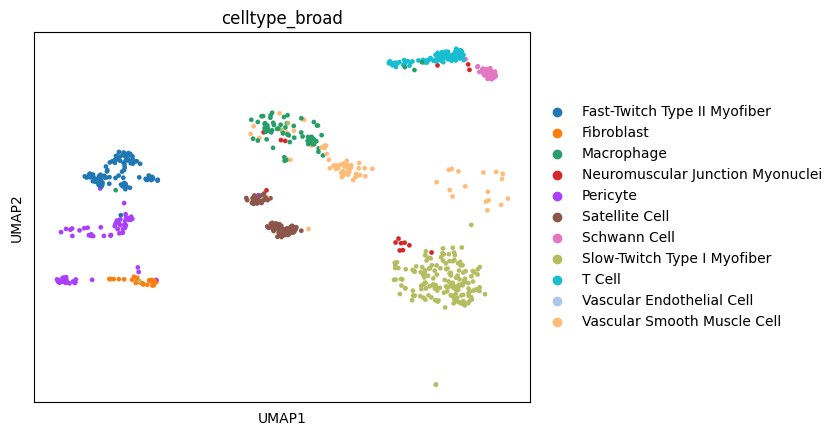
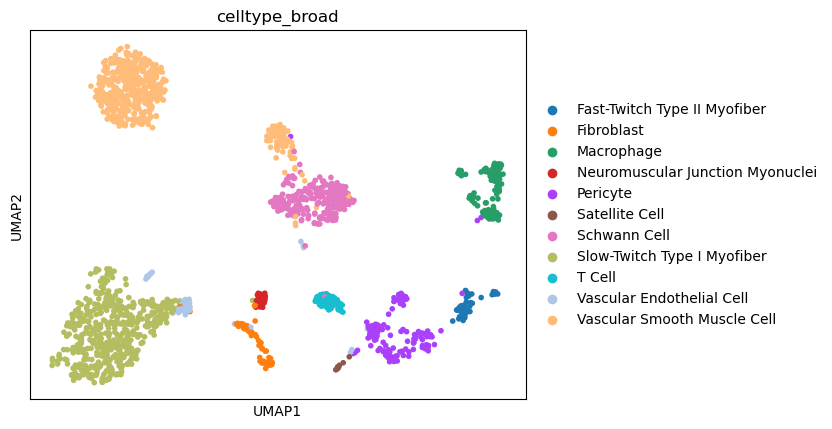
Fix multiome step 5 and demo config; document dGTEx use
- data_integration: match imputed features by name (works without
  var['modality']), log/store how many genes and peaks were filled
- identify_regulatory_elements: references.chrom_size is optional, defaults to
  built-in hg38 sizes
- multiome config: point rna_post_qc_h5ad at the current cell_annotation output
- README: note the workflow will be used for dGTEx multi-omic processing; fix
  cell_annotation and multiome output descriptions; document imputation_signal
- Regenerate multiome final h5ad outputs and UMAPs

diff --git a/multiome_integration/scripts/data_integration.py b/multiome_integration/scripts/data_integration.py
@@ -141,27 +141,58 @@ def propagate_layers_from_rna(adata, rna, rna_layer_names):
         adata.layers[layer_name] = sparse.csr_matrix(adata_layer)
 
 def add_imputed_signal(adata, rna_impute, atac_impute):
+    """
+    Add layer 'imputation_signal' (cells x features of `adata`) from the MultiVI
+    imputed RNA / ATAC matrices.
+
+    Features are matched by name. Genes come from adata.var['modality'] if present,
+    otherwise from the is_rna_feature / is_atac_feature flags that
+    annotate_ATAC_cells.py writes. Only features present in the imputed matrices
+    can be filled; the rest stay 0. The imputed ATAC matrix is defined on the
+    consensus peaks (cREs) from identify_regulatory_elements.py, so it only
+    contributes where adata's ATAC features use the same peak names.
+    """
     logging.info("Integrating imputed expression and accessibility signal into combined AnnData ...")
-    genes = adata.var_names[adata.var['modality'] == "Gene Expression"]
-    peaks = adata.var_names[adata.var['modality'] == "Peaks"]
+    if 'modality' in adata.var:
+        genes = adata.var_names[adata.var['modality'] == "Gene Expression"]
+        peaks = adata.var_names[adata.var['modality'] == "Peaks"]
+    else:
+        genes = adata.var_names[adata.var['is_rna_feature'] == 1]
+        peaks = adata.var_names[adata.var['is_atac_feature'] == 1]
+
+    genes_used = genes[genes.isin(rna_impute.var_names)]
+    peaks_used = peaks[peaks.isin(atac_impute.var_names)]
+    logging.info(f"Imputed expression matched for {len(genes_used)}/{len(genes)} genes; "
+                 f"imputed accessibility matched for {len(peaks_used)}/{len(peaks)} peaks.")
+    if len(peaks_used) < len(peaks):
+        logging.warning(
+            "Imputed accessibility is defined on a different peak set than the ATAC features "
+            "in the combined object; unmatched peaks are left at 0 in 'imputation_signal'. "
+            "The full imputed matrices are in MultiVI_impute_RNA/ATAC.<tissue>.h5ad.")
 
     imp = np.zeros(adata.shape, dtype=float)
 
     # Imputed genes
-    imp[:, adata.var_names.get_indexer(genes)] = (
-        rna_impute[:, genes].X.toarray()
-        if hasattr(rna_impute.X, "toarray")
-        else rna_impute[:, genes].X
-    )
+    if len(genes_used):
+        imp[:, adata.var_names.get_indexer(genes_used)] = (
+            rna_impute[:, genes_used].X.toarray()
+            if hasattr(rna_impute.X, "toarray")
+            else rna_impute[:, genes_used].X
+        )
 
     # Imputed peaks
-    imp[:, adata.var_names.get_indexer(peaks)] = (
-        atac_impute[:, peaks].X.toarray()
-        if hasattr(atac_impute.X, "toarray")
-        else atac_impute[:, peaks].X
-    )
+    if len(peaks_used):
+        imp[:, adata.var_names.get_indexer(peaks_used)] = (
+            atac_impute[:, peaks_used].X.toarray()
+            if hasattr(atac_impute.X, "toarray")
+            else atac_impute[:, peaks_used].X
+        )
 
     adata.layers['imputation_signal'] = sparse.csr_matrix(imp)
+    adata.uns['imputation_signal_features'] = {
+        'genes_filled': int(len(genes_used)), 'genes_total': int(len(genes)),
+        'peaks_filled': int(len(peaks_used)), 'peaks_total': int(len(peaks)),
+    }
     logging.info("Added layer: imputation_signal.")
 
     

diff --git a/multiome_integration/scripts/identify_regulatory_elements.py b/multiome_integration/scripts/identify_regulatory_elements.py
@@ -125,7 +125,7 @@ def main(config_path):
     config = load_config(config_path)
     require_keys(config, [
         "paths.workdir", "paths.output_h5ad_dir", "params.tissue",
-        "my_color_palette", "references.chrom_size",
+        "my_color_palette",
     ], context=config_path)
 
     workdir = config['paths']['workdir']
@@ -142,8 +142,12 @@ def main(config_path):
     nthread = config['params'].get('threads', 16)
     half_width = config['params'].get('peak_half_width', 150)
 
-    chromsize_path = config['references']['chrom_size']
-    chrom_size = read_chrom_size(chromsize_path)
+    chromsize_path = (config.get('references') or {}).get('chrom_size')
+    if chromsize_path:
+        chrom_size = read_chrom_size(chromsize_path)
+    else:
+        logging.info("references.chrom_size not set; using the built-in hg38 chromosome sizes")
+        chrom_size = dict(snap.genome.hg38.chrom_sizes)
 
     if tissue == "---":
         sample_metadata = config['paths']['sample_metadata']

diff --git a/multiome_integration/README.md b/multiome_integration/README.md
@@ -21,8 +21,9 @@ output.
 - **Reference files** under `references:` — the same GENCODE GTF used by
   `ATAC_QC` (`references.gencode_gtf`), and a `<chrom><TAB><length>`
   chromosome-sizes file for your reference genome (`references.chrom_size`,
-  e.g. `hg38.chrom.sizes` from the UCSC goldenPath) — neither is shipped in
-  this repo; supply your own.
+  e.g. `hg38.chrom.sizes` from the UCSC goldenPath). The GTF is not shipped in
+  this repo; supply your own. `references.chrom_size` is optional and defaults
+  to the built-in hg38 sizes; set it for non-human genomes.
 
 Config: `config/joint_multiomic_config.yaml`. Paths are relative to
 `multiome_integration/`; paths starting with `../` reach into sibling module
@@ -64,6 +65,15 @@ Under `paths.workdir` (default `test_output/`):
   integration stage (overlap-checked, annotated, imputed, GLUE-merged).
 - `glue/`, `multivi/`, `atac_peak/`, `overlap_figures/`: per-step figures,
   model checkpoints, and consensus-peak tables.
-- `final/`: the final joint `multiome_final.<tissue>.h5ad`, plus split
-  `multiome_final.RNA.<tissue>.h5ad` / `multiome_final.ATAC.<tissue>.h5ad`
-  and summary UMAPs.
+- `h5ad/` also holds the final joint `multiome_final.<tissue>.h5ad`, plus the
+  split `multiome_final.RNA.<tissue>.h5ad` / `multiome_final.ATAC.<tissue>.h5ad`.
+- `final/`: summary UMAPs of the final objects.
+
+**Note on `imputation_signal`.** The final object's `imputation_signal` layer
+is filled by matching feature names against the MultiVI imputed matrices.
+Imputed expression covers all genes. Imputed accessibility is defined on the
+consensus peaks (cREs) from step 3, so it only fills ATAC features that use
+the same peak names; in the demo the combined object uses genomic tiles, so
+those columns stay 0 (the script logs how many features matched, and the
+counts are stored in `adata.uns["imputation_signal_features"]`). The complete
+imputed matrices are in `MultiVI_impute_RNA/ATAC.<tissue>.h5ad`.

diff --git a/cell_annotation/README.md b/cell_annotation/README.md
@@ -50,6 +50,9 @@ Under `paths.workdir` (default `test_output/`):
 - `cell_annotation_auto/`: DEG/marker dotplots, per-cluster top-DEG UMAPs,
   ScType annotation UMAP, `<tissue>_GEX.autoAnnotation.tsv`, and the
   intermediate annotated `.h5ad`.
-- `final/`: the final annotated `.h5ad` (consumed by
-  `multiome_integration`'s `paths.rna_post_qc_h5ad`) and summary UMAPs/cell
-  counts.
+- `cell_annotation_final/`: summary UMAPs and cell counts for the final
+  annotation.
+- The annotated `.h5ad` files are written to `paths.output_h5ad_dir` (the demo
+  uses `../RNA_QC/test_output/rna_h5ad/`), including the final
+  `<tissue>.GEX.final.h5ad` that `multiome_integration` consumes through its
+  `paths.rna_post_qc_h5ad`.

diff --git a/README.md b/README.md
@@ -6,6 +6,10 @@ A pipeline for processing single-cell multiome data (paired snRNA-seq +
 snATAC-seq, e.g. 10x Multiome) from CellRanger/fragment-file output through
 per-modality QC, cell annotation, and joint RNA+ATAC integration.
 
+This workflow will be leveraged for processing the dGTEx multi-omic dataset.
+The demo data bundled here are small, anonymized subsets (donors are labelled
+`DonorA` / `DonorB`) used only to illustrate the steps.
+
 This repo covers data preprocessing only. Downstream analysis for the
 manuscript (cCRE calling, chromatin domain mapping, cancer remodelling,
 variant-effect models) lives in the companion repo:
